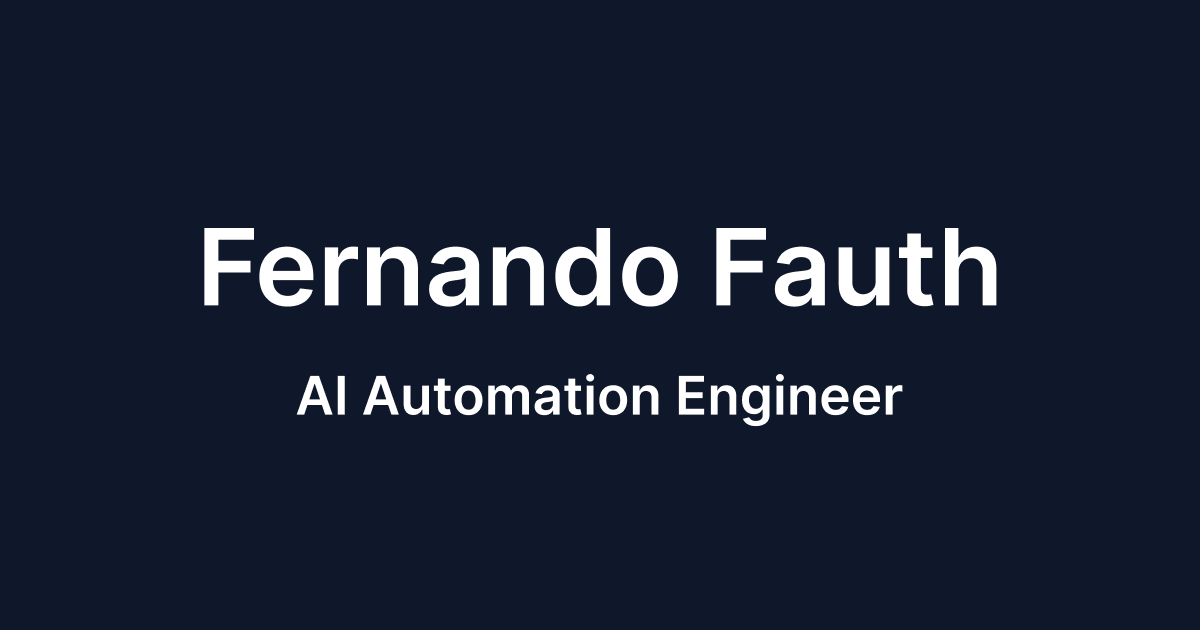
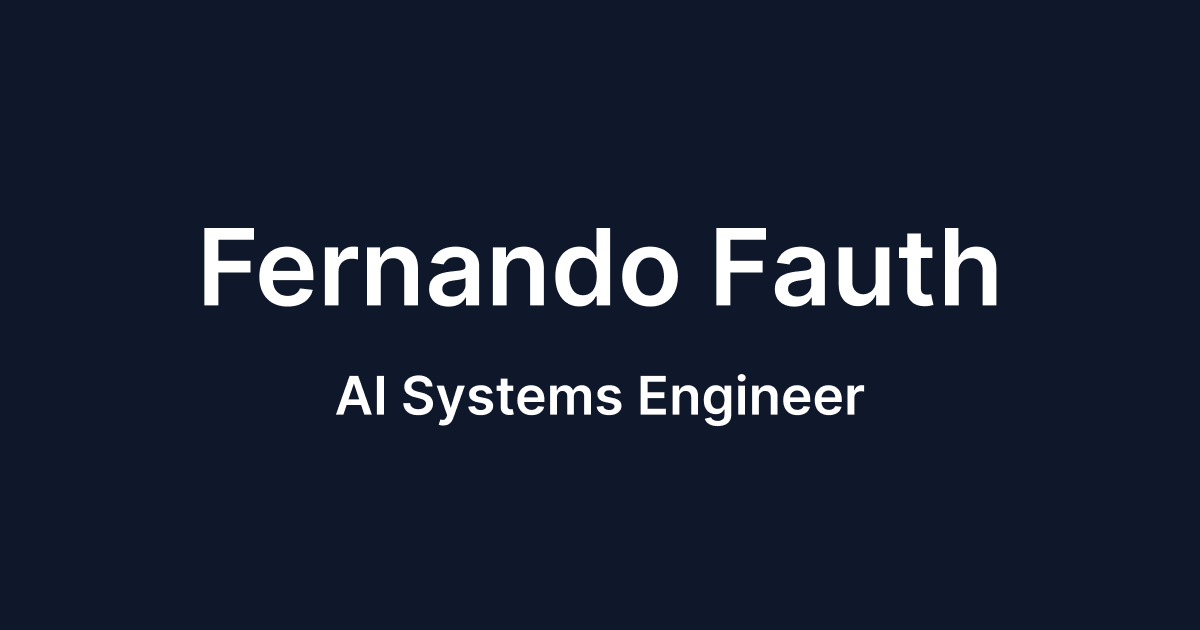
feat: update title and descriptions to reflect role change to AI Systems Engineer

Changed region(s): [[0.2467, 0.573, 0.7708, 0.6937]]

diff --git a/index.html b/index.html
@@ -3,10 +3,10 @@
   <head>
     <meta charset="UTF-8" />
     <meta name="viewport" content="width=device-width, initial-scale=1.0" />
-    <title>Fernando Fauth | AI Automation Engineer</title>
+    <title>Fernando Fauth | AI Systems Engineer</title>
     <meta
       name="description"
-      content="Fernando Fauth — AI Automation Engineer building end-to-end AI solutions, developer tooling, and automation."
+      content="Fernando Fauth — AI Systems Engineer building end-to-end AI solutions, developer tooling, and automation."
     />
     <meta
       name="keywords"
@@ -17,13 +17,10 @@
     <link rel="canonical" href="https://fernandofauth.com/" />
 
     <!-- Open Graph -->
-    <meta
-      property="og:title"
-      content="Fernando Fauth | AI Automation Engineer"
-    />
+    <meta property="og:title" content="Fernando Fauth | AI Systems Engineer" />
     <meta
       property="og:description"
-      content="AI Automation Engineer building end-to-end AI solutions, developer tooling, and automation."
+      content="AI Systems Engineer building end-to-end AI solutions, developer tooling, and automation."
     />
     <meta property="og:type" content="website" />
     <meta property="og:url" content="https://fernandofauth.com/" />
@@ -34,13 +31,10 @@
 
     <!-- Twitter Card -->
     <meta name="twitter:card" content="summary_large_image" />
-    <meta
-      name="twitter:title"
-      content="Fernando Fauth | AI Automation Engineer"
-    />
+    <meta name="twitter:title" content="Fernando Fauth | AI Systems Engineer" />
     <meta
       name="twitter:description"
-      content="AI Automation Engineer building end-to-end AI solutions, developer tooling, and automation."
+      content="AI Systems Engineer building end-to-end AI solutions, developer tooling, and automation."
     />
     <meta
       name="twitter:image"
@@ -60,7 +54,7 @@
         "@type": "Person",
         "name": "Fernando Fauth",
         "url": "https://fernandofauth.com/",
-        "jobTitle": "AI Automation Engineer",
+        "jobTitle": "AI Systems Engineer",
         "sameAs": ["https://github.com/fernandofauth"]
       }
     </script>

diff --git a/src/components/Hero.jsx b/src/components/Hero.jsx
@@ -9,7 +9,7 @@ export default function Hero() {
         transition={{ duration: 0.8 }}
         className="text-6xl md:text-7xl font-bold tracking-tight"
       >
-        AI Automation Engineer
+        AI Systems Engineer
       </motion.h1>
 
       <motion.p

diff --git a/README.md b/README.md
@@ -1,4 +1,4 @@
-# Fernando Fauth — AI Automation Engineer (Website)
+# Fernando Fauth — AI Systems Engineer (Website)
 
 Personal website built with Vite + React and styled with Tailwind CSS.
 
